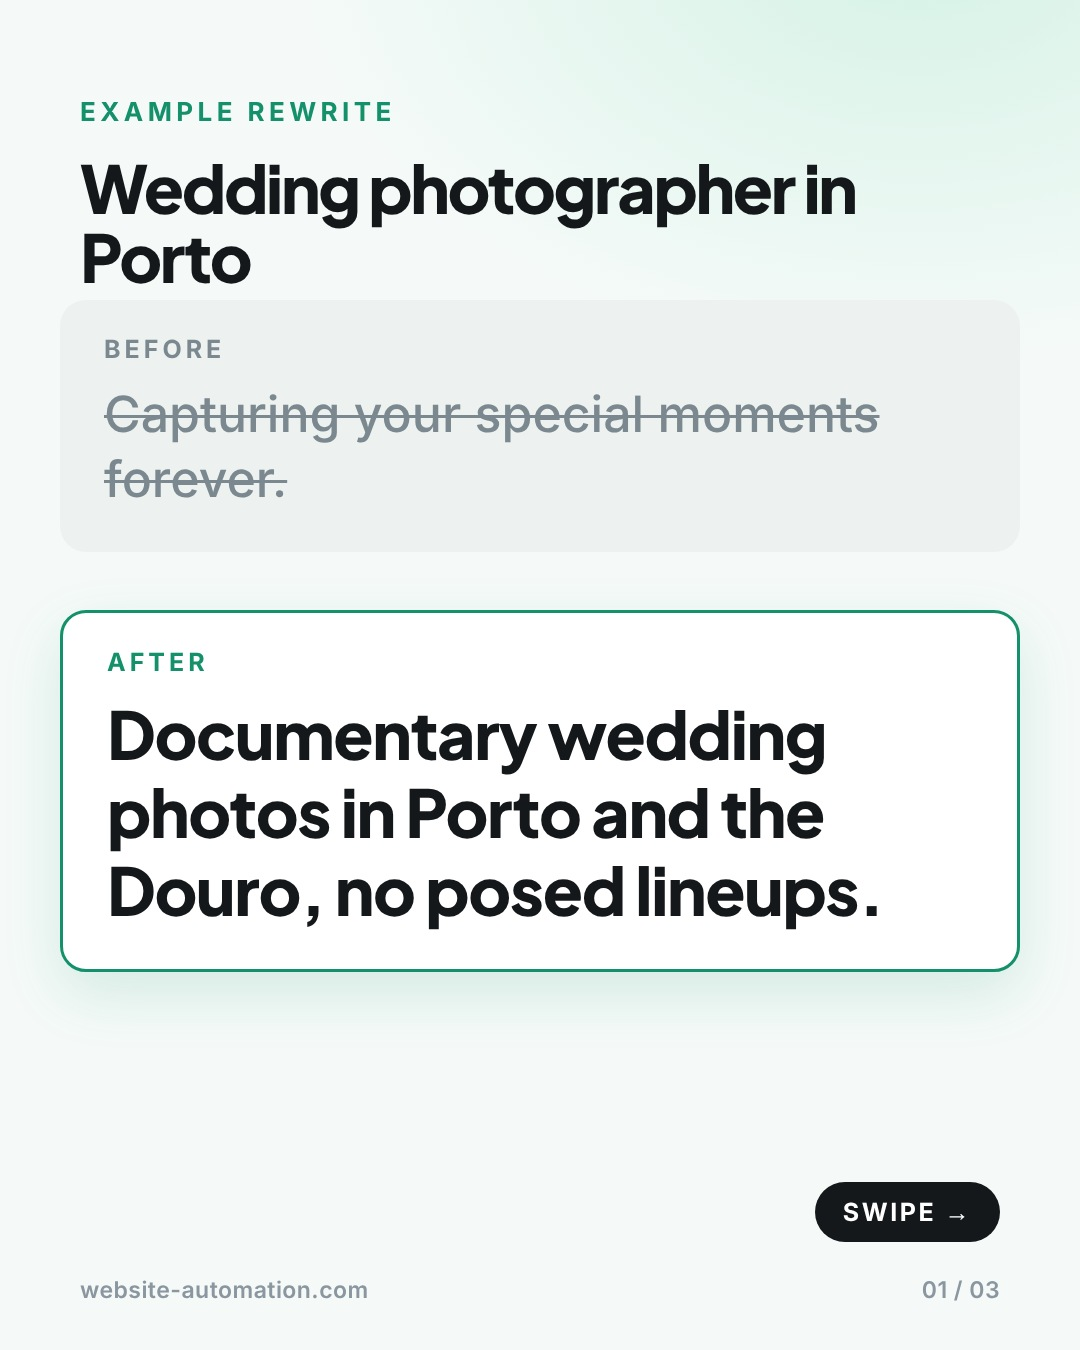
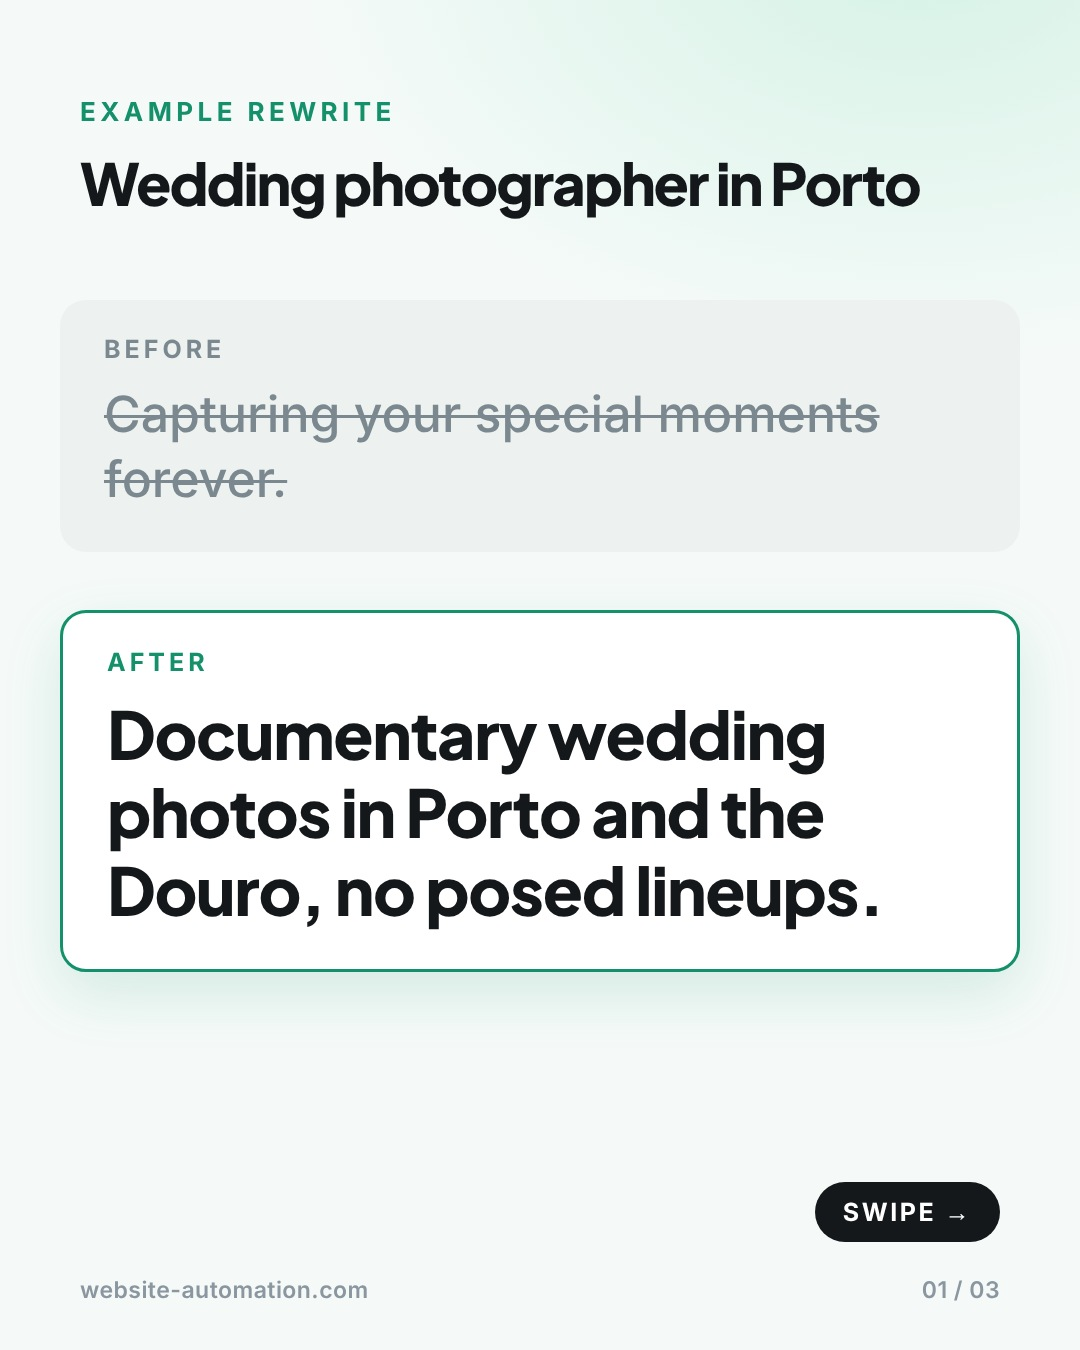
Fit the longest business names on one line
Claude-Session: https://claude.ai/code/session_01TEi5zZmfjtzHgEwmKb4mqj

Changed region(s): [[0.0611, 0.0933, 0.8556, 0.2178]]

diff --git a/tools/wa_library.py b/tools/wa_library.py
@@ -217,7 +217,7 @@ REWRITE_CSS = (".card{position:absolute;left:60px;right:60px;border-radius:26px;
 
 def render_rewrite(sh, job, p, ind, out):
     Path(out).mkdir(parents=True, exist_ok=True)
-    body = (f'<div class="pad"><div class="eb">Example rewrite</div><div class="h1" style="font-size:{84 if len(p["business"]) <= 23 else 66}px">{esc(p["business"])}</div></div>'
+    body = (f'<div class="pad"><div class="eb">Example rewrite</div><div class="h1" style="font-size:{84 if len(p["business"]) <= 23 else 72 if len(p["business"]) <= 26 else 58}px">{esc(p["business"])}</div></div>'
             f'<div class="card was"><div class="lab">Before</div><p>{esc(p["before"])}</p></div>'
             f'<div class="card now"><div class="lab">After</div><p>{esc(p["after"])}</p></div>'
             '<div class="swipe">SWIPE →</div>' + foot(1, 3))
